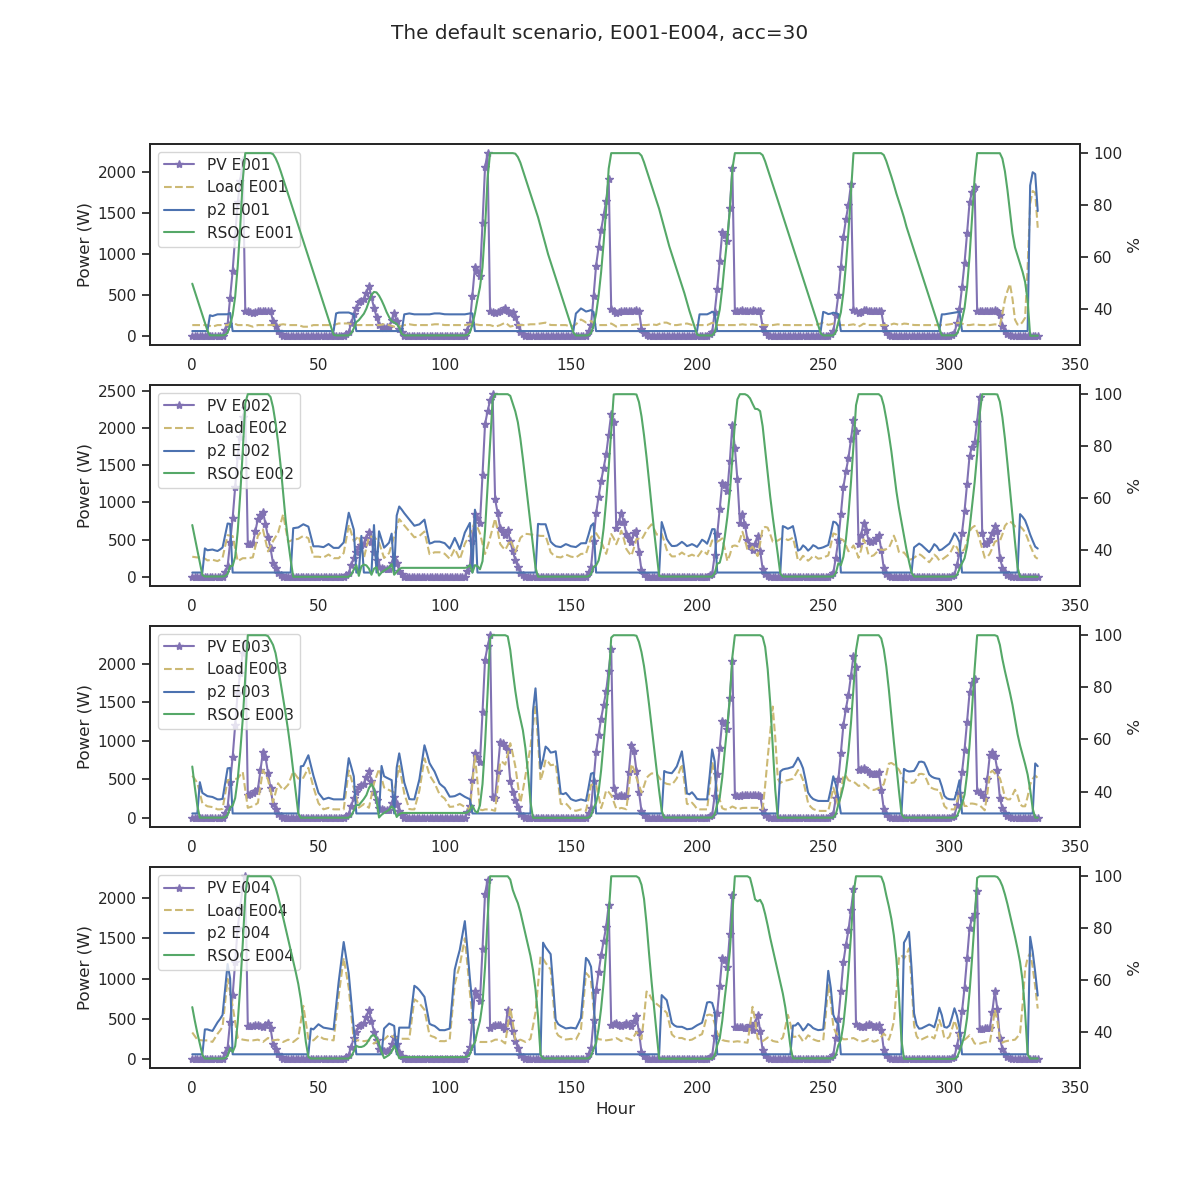
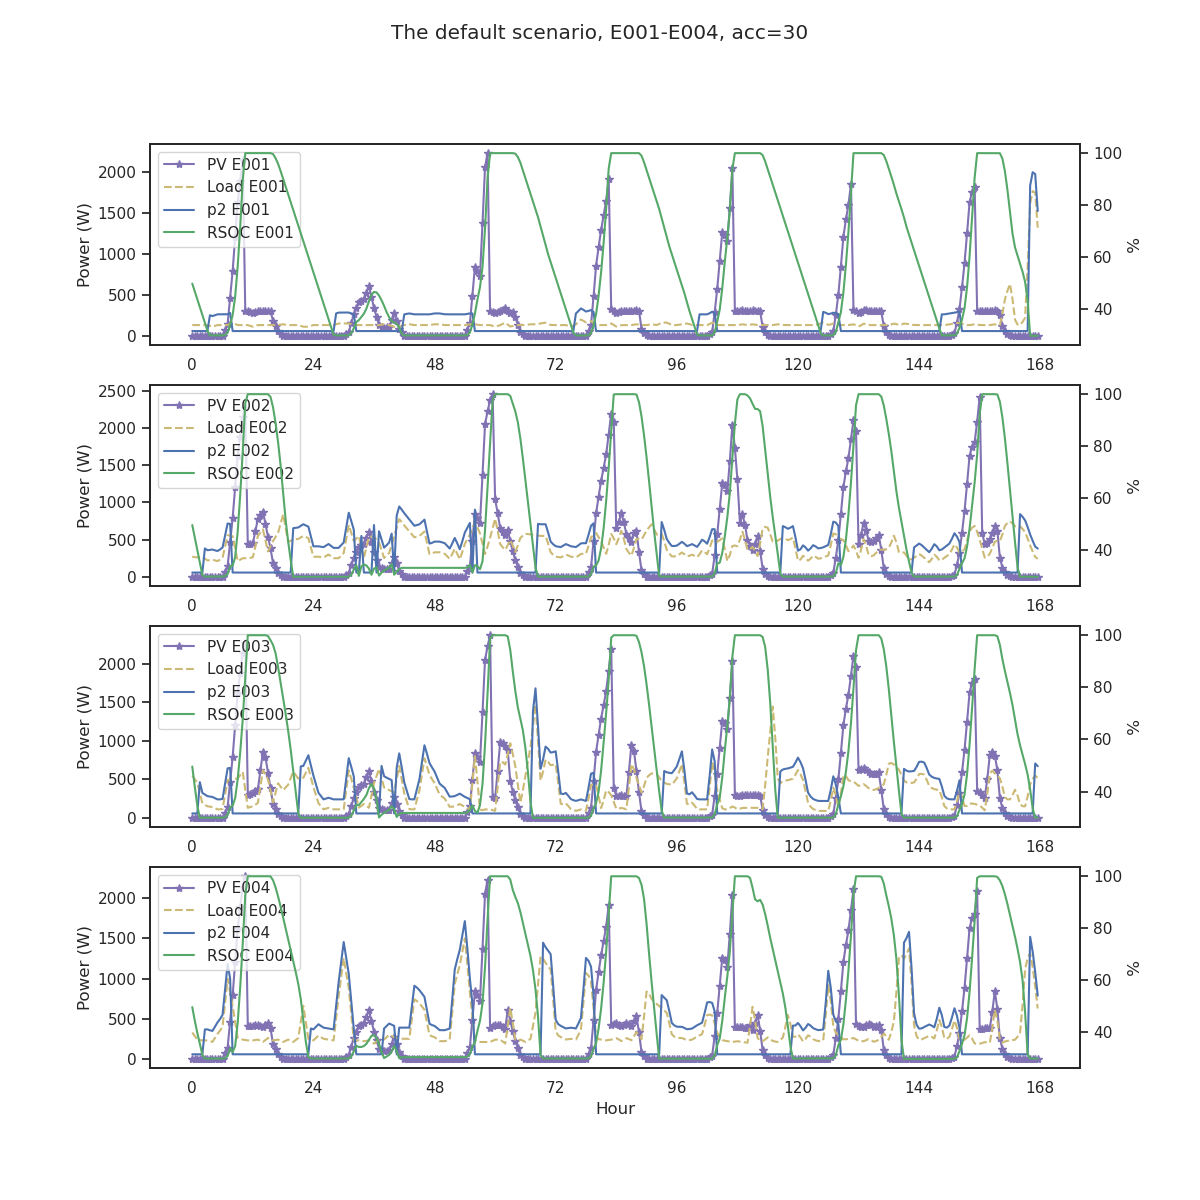
change xticks to hours (24*7) additional run acc = 300 (5min)

diff --git a/plots_fixed.py b/plots_fixed.py
@@ -8,13 +8,14 @@ created by Qiong
 import numpy as np
 from matplotlib import pyplot as plt
 import seaborn as sns
+
 sns.set(style="white")
 
 import pandas as pd
 import os
 import global_var as gl
 
-inputFile = "sample_acc_10.csv"
+inputFile = "sample_acc_30.csv"
 inputData = pd.read_csv(inputFile)
 memory = inputData.to_numpy()
 
@@ -28,9 +29,9 @@ if int(check_acc) == gl.acc:
     print("acc correctly received")
     # PLOT Houses data
     rows_e001 = list(range(0, 10000, 4))
-    rows_e002 = [x+1 for x in rows_e001]
-    rows_e003 = [x+2 for x in rows_e001]
-    rows_e004 = [x+3 for x in rows_e001]
+    rows_e002 = [x + 1 for x in rows_e001]
+    rows_e003 = [x + 2 for x in rows_e001]
+    rows_e004 = [x + 3 for x in rows_e001]
 
     pvc_e001 = memory[rows_e001, 0]
     load_e001 = memory[rows_e001, 1]
@@ -52,7 +53,6 @@ if int(check_acc) == gl.acc:
     p2_e004 = memory[rows_e004, 2]
     rsoc_e004 = memory[rows_e004, 3]
 
-
     """
     Plot data
     """
@@ -64,10 +64,17 @@ if int(check_acc) == gl.acc:
     ax3_2 = ax3.twinx()
     fig.suptitle("The default scenario, E001-E004, acc=%i" % gl.acc)
 
-    pvc_e001_plot = ax0.plot(pvc_e001[:24*7*coeff], 'm*-', label="PV E001")
-    load_e001_plot = ax0.plot(load_e001[:24*7*coeff], 'y--', label="Load E001")
-    p2_e001_plot = ax0.plot(p2_e001[:24*7*coeff], 'b', label="p2 E001")
-    rsoc_e001_plot = ax0_2.plot(rsoc_e001[:24*7*coeff], 'g', label="RSOC E001")
+    pvc_e001_plot = ax0.plot(pvc_e001[:24 * 7 * coeff], 'm*-', label="PV E001")
+    load_e001_plot = ax0.plot(load_e001[:24 * 7 * coeff], 'y--', label="Load E001")
+    p2_e001_plot = ax0.plot(p2_e001[:24 * 7 * coeff], 'b', label="p2 E001")
+    rsoc_e001_plot = ax0_2.plot(rsoc_e001[:24 * 7 * coeff], 'g', label="RSOC E001")
+    # ticks = np.arange(0, 24*7*coeff, 24*coeff)
+    ax0_ticks = ax0.set_xticks(np.linspace(0, 24*7*coeff, 8, endpoint=True))
+    hours = np.round(np.linspace(0, 24*7*coeff, 8, endpoint=True) / coeff).astype(int)
+    label = []
+    for i in range(len(hours)):
+        label.append(str(hours[i]))  # ['0', '24', '48', '72', '96', '120', '144', '168']
+    ax0_labels = ax0.set_xticklabels(label)
     # ax0.set_xlabel("Hour")
     ax0.set_ylabel("Power (W)")
     ax0_2.set_ylabel(" % ")
@@ -75,10 +82,12 @@ if int(check_acc) == gl.acc:
     labels_e001 = [plot.get_label() for plot in plots_e001]
     ax0.legend(plots_e001, labels_e001, loc='upper left')
 
-    pvc_e002_plot = ax1.plot(pvc_e002[:24*7*coeff], 'm*-', label="PV E002")
-    load_e002_plot = ax1.plot(load_e002[:24*7*coeff], 'y--', label="Load E002")
-    p2_e002_plot = ax1.plot(p2_e002[:24*7*coeff], 'b', label="p2 E002")
-    rsoc_e002_plot = ax1_2.plot(rsoc_e002[:24*7*coeff], 'g', label="RSOC E002")
+    pvc_e002_plot = ax1.plot(pvc_e002[:24 * 7 * coeff], 'm*-', label="PV E002")
+    load_e002_plot = ax1.plot(load_e002[:24 * 7 * coeff], 'y--', label="Load E002")
+    p2_e002_plot = ax1.plot(p2_e002[:24 * 7 * coeff], 'b', label="p2 E002")
+    rsoc_e002_plot = ax1_2.plot(rsoc_e002[:24 * 7 * coeff], 'g', label="RSOC E002")
+    ax1_ticks = ax1.set_xticks(np.linspace(0, 24*7*coeff, 8, endpoint=True))
+    ax1_labels = ax1.set_xticklabels(label)
     # ax1.set_xlabel("Hour")
     ax1.set_ylabel("Power (W)")
     ax1_2.set_ylabel(" % ")
@@ -86,11 +95,12 @@ if int(check_acc) == gl.acc:
     labels_e002 = [plot.get_label() for plot in plots_e002]
     ax1.legend(plots_e002, labels_e002, loc='upper left')
 
-
-    pvc_e003_plot = ax2.plot(pvc_e003[:24*7*coeff], 'm*-', label="PV E003")
-    load_e003_plot = ax2.plot(load_e003[:24*7*coeff], 'y--', label="Load E003")
-    p2_e003_plot = ax2.plot(p2_e003[:24*7*coeff], 'b', label="p2 E003")
-    rsoc_e003_plot = ax2_2.plot(rsoc_e003[:24*7*coeff], 'g', label="RSOC E003")
+    pvc_e003_plot = ax2.plot(pvc_e003[:24 * 7 * coeff], 'm*-', label="PV E003")
+    load_e003_plot = ax2.plot(load_e003[:24 * 7 * coeff], 'y--', label="Load E003")
+    p2_e003_plot = ax2.plot(p2_e003[:24 * 7 * coeff], 'b', label="p2 E003")
+    rsoc_e003_plot = ax2_2.plot(rsoc_e003[:24 * 7 * coeff], 'g', label="RSOC E003")
+    ax2_ticks = ax2.set_xticks(np.linspace(0, 24*7*coeff, 8, endpoint=True))
+    ax2_labels = ax2.set_xticklabels(label)
     # ax2.set_xlabel("Hour")
     ax2.set_ylabel("Power (W)")
     ax2_2.set_ylabel(" % ")
@@ -98,10 +108,12 @@ if int(check_acc) == gl.acc:
     labels_e003 = [plot.get_label() for plot in plots_e003]
     ax2.legend(plots_e003, labels_e003, loc='upper left')
 
-    pvc_e004_plot = ax3.plot(pvc_e004[:24*7*coeff], 'm*-', label="PV E004")
-    load_e004_plot = ax3.plot(load_e004[:24*7*coeff], 'y--', label="Load E004")
-    p2_e004_plot = ax3.plot(p2_e004[:24*7*coeff], 'b', label="p2 E004")
-    rsoc_e004_plot = ax3_2.plot(rsoc_e004[:24*7*coeff], 'g', label="RSOC E004")
+    pvc_e004_plot = ax3.plot(pvc_e004[:24 * 7 * coeff], 'm*-', label="PV E004")
+    load_e004_plot = ax3.plot(load_e004[:24 * 7 * coeff], 'y--', label="Load E004")
+    p2_e004_plot = ax3.plot(p2_e004[:24 * 7 * coeff], 'b', label="p2 E004")
+    rsoc_e004_plot = ax3_2.plot(rsoc_e004[:24 * 7 * coeff], 'g', label="RSOC E004")
+    ax3_ticks = ax3.set_xticks(np.linspace(0, 24*7*coeff, 8, endpoint=True))
+    ax3_labels = ax3.set_xticklabels(label)
     ax3.set_xlabel("Hour")
     ax3.set_ylabel("Power (W)")
     ax3_2.set_ylabel(" % ")
@@ -112,3 +124,5 @@ if int(check_acc) == gl.acc:
     plt.show()
 else:
     print("check acc value")
+
+# Compare MSE (or sth. likely) to check different acc

diff --git a/main_fixed.py b/main_fixed.py
@@ -58,8 +58,10 @@ p2_list = []
 rsoc_list = []
 
 # max_time: 10,080s -> 2.8hr in run time, 168hr(7 days) in real time when acc=60, sleep=60s
+# max_time: 30,240s -> 8.4hr in run time, 168hr(7 days) in real time when acc=30, sleep=60s
 # max_time: 60,480s -> 16.8hr in run time, 168hr(7 days) in real time when acc=10, sleep=60s
-max_time = 30240  # int(input('Enter the amount of seconds you want to run this: '))
+# max_time: 2,016s -> 0.56hr in run time, 168hr(7 days) in real time when acc=300, sleep=60s
+max_time = 2016  # int(input('Enter the amount of seconds you want to run this: '))
 # 21,600, 6hrs
 start_time = time.time()  # remember when we started
 
@@ -102,16 +104,7 @@ while (time.time() - start_time) < max_time:
     end_time = time.time()
     print("running time: {:.2f} mins".format((end_time - start_time)/60 * gl.acc))  # real time
 
-        # States  pvc_charge_power[ids], for house E001
-        # if ids == "E001":
-        #     pv_e001 = np.array([pvc_charge_power["E001"]])
-        #     load_e001 = np.array([ups_output_power["E001"]])
-        #     p2_e001 = np.array([p2["E001"]])
-        #     rsoc_e001 = np.array([rsoc["E001"]])
-        #
-        #     x_e001 = np.concatenate([pv_e001, load_e001, p2_e001, rsoc_e001], axis=-1)
-        #     # print(x_e001)  # [39.14 575.58 734.    29.98] E001
-
+"""
 # PLOT Houses data
 rows_e001 = list(range(0, agent.memory_size, 4))
 rows_e002 = [x+1 for x in rows_e001]
@@ -137,14 +130,15 @@ pvc_e004 = agent.memory[rows_e004, 0]
 load_e004 = agent.memory[rows_e004, 1]
 p2_e004 = agent.memory[rows_e004, 2]
 rsoc_e004 = agent.memory[rows_e004, 3]
-
+"""
 """
 Save data into csv files
 """
 # export to csv files
 new_path = os.getcwd()
 # filename = "sample_acc_60.csv"  # 168*4 points data saved
-filename = "sample_acc_30.csv"  # 168*6 points data saved
+# filename = "sample_acc_30.csv"  # 168*6 points data saved
+filename = "sample_acc_300.csv"  # 5 mins
 pd.DataFrame(agent.memory).to_csv(os.path.join(new_path, filename), index=False)
 # agent.memory.to_csv(os.path.join(new_path, filename), index=False)
 # pd.DataFrame(np_array).to_csv("path/to/file.csv")

diff --git a/global_var.py b/global_var.py
@@ -21,7 +21,7 @@ inData = None  # input data
 # sums up all up until now
 analyserObject = None
 
-acc = 10  # acceleration rate
+acc = 30  # acceleration rate
 # count_h = 0 #time flag: count_h hours have passed from start
 count_s = 0  # how many seconds have passed
 
